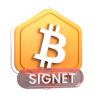
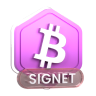
fix: update signet token image reference to sbtc

diff --git a/src/constants/chain/bitcoin/signet.ts b/src/constants/chain/bitcoin/signet.ts
@@ -1,7 +1,7 @@
 import { networks } from 'bitcoinjs-lib';
 
 import signetChainImg from '~/images/chainImgs/signet.png';
-import signetTokenImg from '~/images/symbols/btc.png';
+import signetTokenImg from '~/images/symbols/sbtc.png';
 import type { BitcoinChain } from '~/types/chain';
 
 export const SIGNET: BitcoinChain = {
